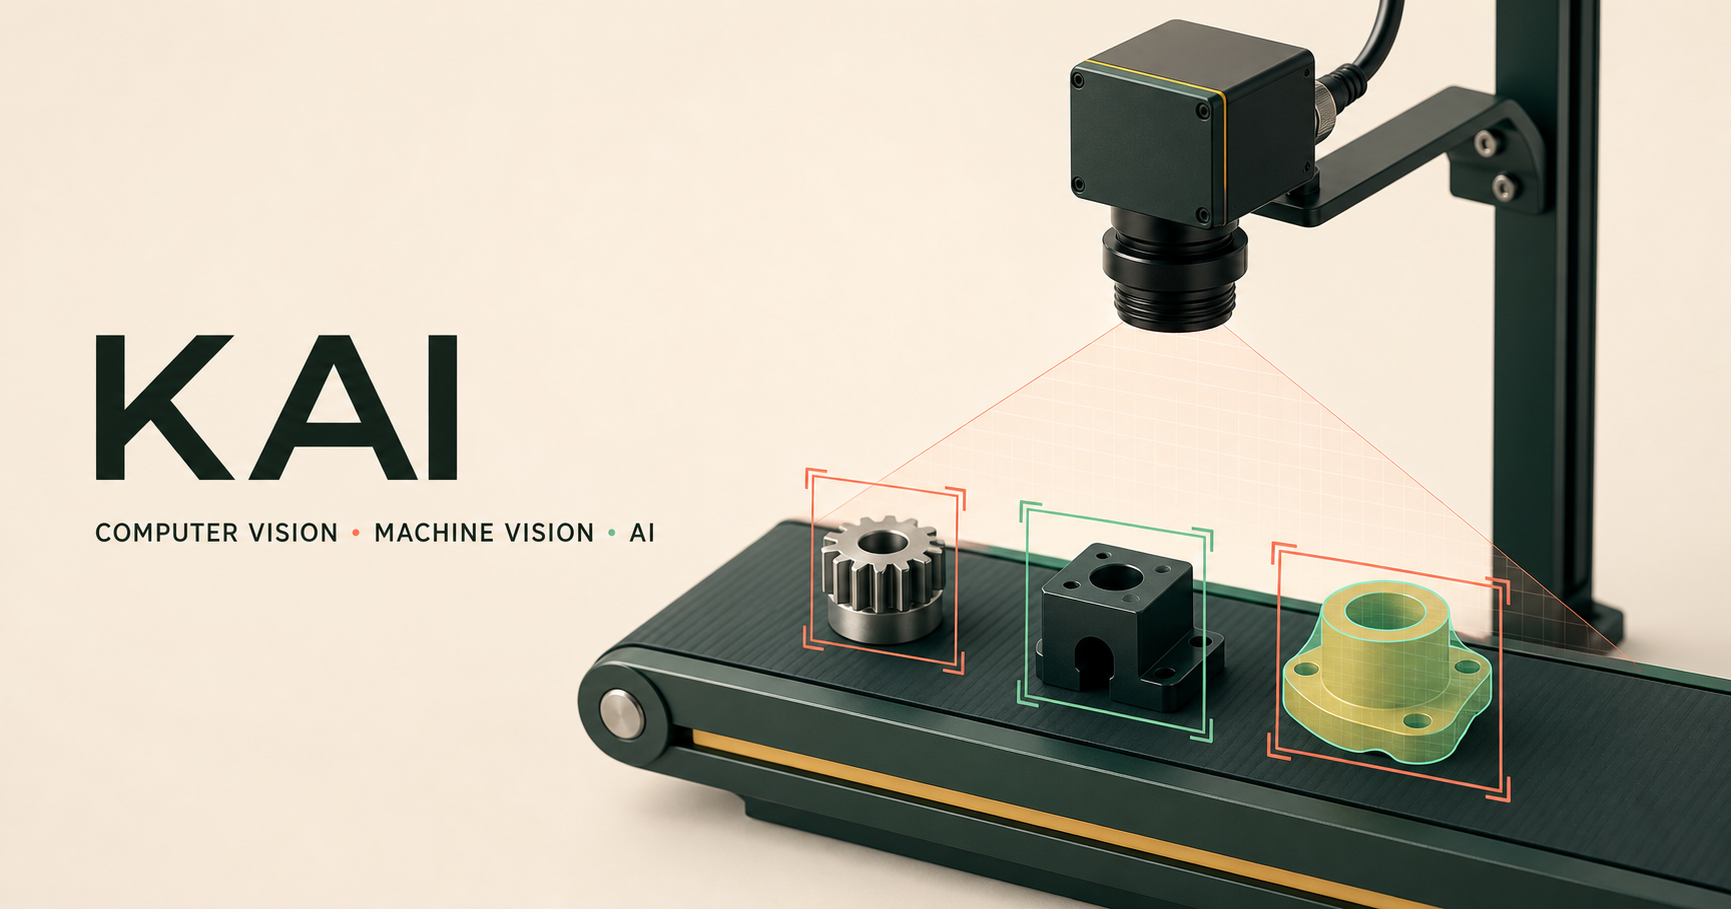
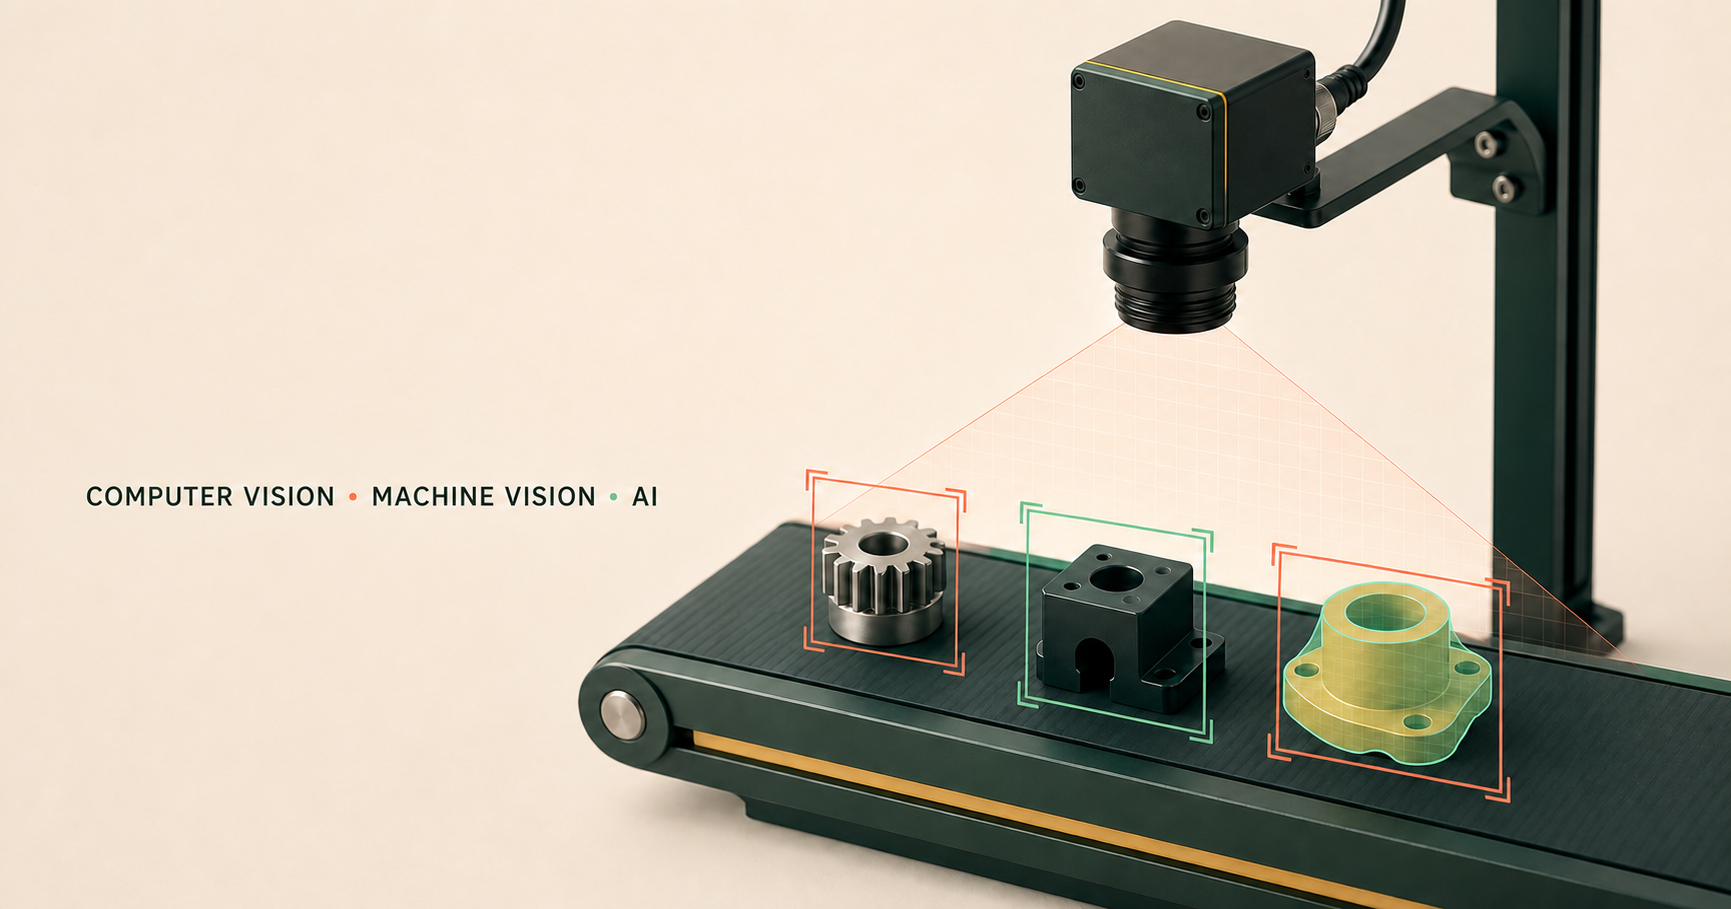
Remove KAI branding from personal profile

diff --git a/index.html b/index.html
@@ -5,17 +5,17 @@
     <meta name="viewport" content="width=device-width, initial-scale=1.0" />
     <meta
       name="description"
-      content="컴퓨터 비전, 머신 비전, 인공지능을 탐구하고 구현하는 KAI의 개인 홈페이지입니다."
+      content="컴퓨터 비전, 머신 비전, 인공지능을 탐구하고 구현하는 개인 프로필입니다."
     />
     <meta name="theme-color" content="#f5f2ea" />
     <meta property="og:type" content="website" />
-    <meta property="og:title" content="KAI — Computer Vision &amp; AI" />
+    <meta property="og:title" content="Personal Profile — Computer Vision &amp; AI" />
     <meta property="og:description" content="컴퓨터 비전, 머신 비전, 인공지능을 탐구하고 구현합니다." />
     <meta property="og:url" content="https://suhyoung89pro.github.io/" />
     <meta property="og:image" content="https://suhyoung89pro.github.io/og.png" />
-    <meta property="og:image:alt" content="KAI 컴퓨터 비전, 머신 비전, AI" />
+    <meta property="og:image:alt" content="컴퓨터 비전, 머신 비전, 인공지능 개인 프로필" />
     <meta name="twitter:card" content="summary_large_image" />
-    <title>KAI — Computer Vision &amp; AI</title>
+    <title>Personal Profile — Computer Vision &amp; AI</title>
     <link rel="stylesheet" href="./styles.css" />
     <script src="./script.js" defer></script>
   </head>
@@ -23,7 +23,7 @@
     <a class="skip-link" href="#main">본문으로 건너뛰기</a>
 
     <header class="site-header">
-      <a class="logo" href="#top" aria-label="KAI 홈페이지 처음으로">KAI<span>.</span></a>
+      <a class="logo" href="#top" aria-label="개인 프로필 처음으로">PROFILE<span>.</span></a>
       <button
         class="menu-button"
         type="button"
@@ -45,7 +45,7 @@
           <p class="eyebrow">Computer Vision · Machine Vision · AI</p>
           <h1>보고, 이해하고,<br /><em>판단하는 AI</em>를 만듭니다.</h1>
           <p class="hero-description">
-            안녕하세요, KAI입니다. 이미지와 영상, 산업 데이터를 활용해 현실의
+            안녕하세요. 이미지와 영상, 산업 데이터를 활용해 현실의
             문제를 해결하는 컴퓨터 비전과 인공지능 기술을 탐구하고 구현합니다.
           </p>
           <div class="hero-actions">
@@ -153,7 +153,7 @@
     </main>
 
     <footer class="site-footer">
-      <p>© <span id="year"></span> KAI</p>
+      <p>© <span id="year"></span> · suhyoung89pro</p>
       <p>Built with care · Hosted on GitHub Pages</p>
       <a href="#top">위로 ↑</a>
     </footer>

diff --git a/README.md b/README.md
@@ -1,4 +1,4 @@
-# KAI Homepage
+# Personal Homepage
 
 컴퓨터 비전, 머신 비전, 인공지능을 소개하는 개인 홈페이지입니다. 별도 설치나
 빌드 과정 없이 `index.html`을 바로 배포합니다.
